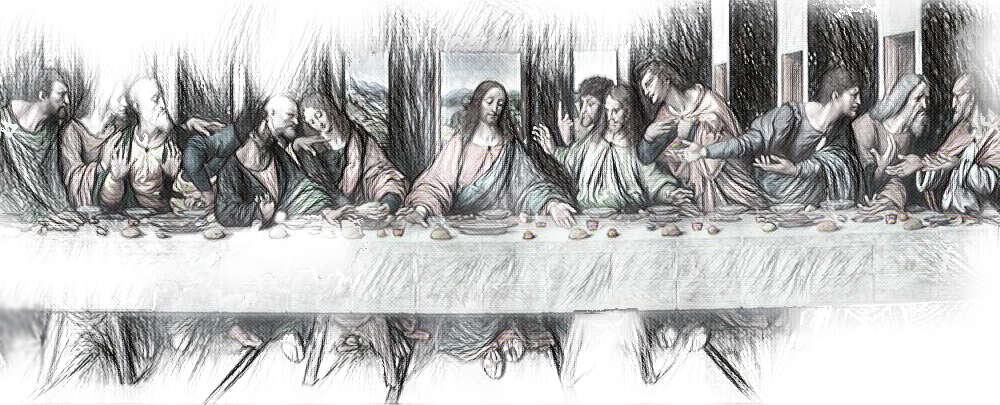
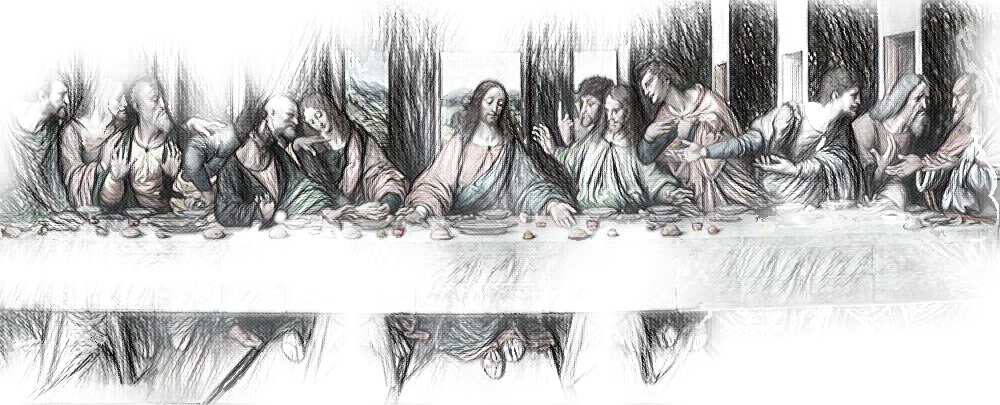
Update the default picture for gallery.

diff --git a/themes/style/default.css b/themes/style/default.css
@@ -897,9 +897,11 @@ ul.testament li ol li {
 }
 
 .gallery {
-    background: url("/themes/images/last-dinner.png") no-repeat scroll 0 50% #000000;
+    background: url("/themes/images/last-dinner.png") no-repeat scroll 0 50%;
+        background-size: auto;
     height: 20em;
     margin-bottom: 0.5em;
+    background-size: 100%;
 }
 
 /* Mobile and iPad Portrait */
